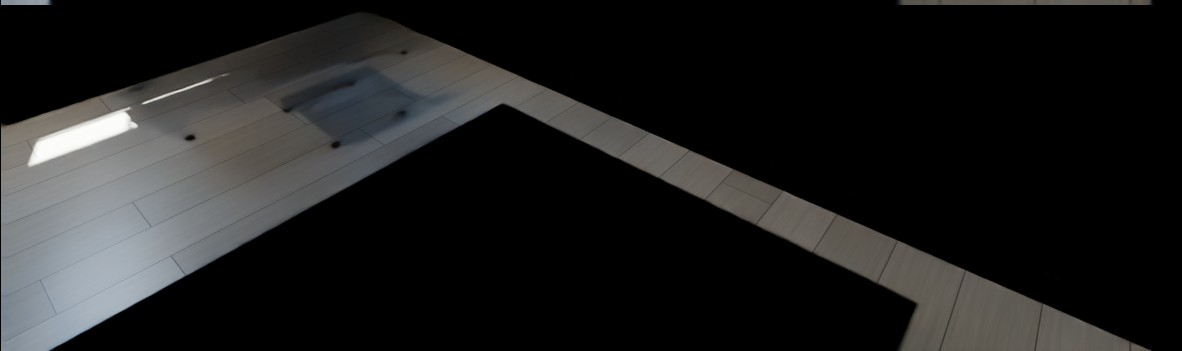
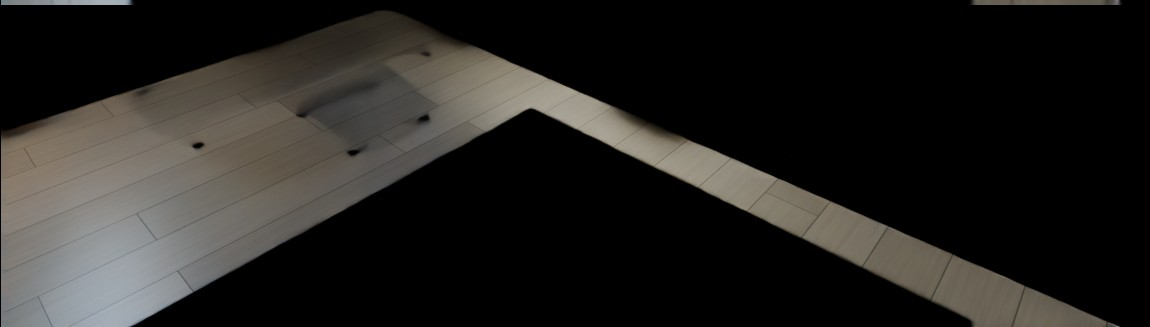
The Lookout 3500 2.0: bed2
The Lookout 3500 2.0 page: a picture redone.

- Bedroom 2 re-rendered: afternoon sun, cased windows with curtains, a desk at the window; crown molding as a choice, flooring, carpet, wall paint and window frames as before.

Claude-Session: https://claude.ai/code/session_01LcUu1yMTHs7qUW5E51HSvp

diff --git a/lookout/site.js b/lookout/site.js
@@ -1,1 +1,1 @@
-window.SJ={"name":"The Lookout 3500 2.0","slug":"the-lookout-3500-2","tag":"One-and-a-half-story plan","sub":"Four bedrooms and three and a half baths in 3,760 square feet, with the primary suite on the main level, a lookout room on the roof and a three-car garage.","stats":[["3,760","sq ft finished"],["4","bedrooms"],["3.5","baths"],["3","car garage"],["Main-level","primary suite"],["14 x 16","lookout room"]],"hero":{"day":"img/hero-day.jpg","night":""},"views":[{"id":"hero","name":"Front","kind":"ext","keys":["fas","fd","fdc","g","gdc","lk","prf","pst","rof","sid","trm","win"]},{"id":"yard","name":"Back yard","kind":"ext","keys":["fas","g","lk","pl","prf","pst","rof","sid","trm","win"]},{"id":"great","name":"Living room","kind":"int","keys":["bi","clg","cr","flr","fp","hwc","idc","ids","wal","win"]},{"id":"kitchen","name":"Kitchen","kind":"int","keys":["bsp","cab","cr","ctr","flr","hwc","isl","wal","win"]},{"id":"dining","name":"Dining room","kind":"int","keys":["cr","flr","wal","win"]},{"id":"foyer","name":"Foyer","kind":"int","keys":["cr","fd","fdc","flr","hwc","sf","sr","wal","win"]},{"id":"primary","name":"Primary bedroom","kind":"int","keys":["cr","flr","wal","win"]},{"id":"bath","name":"Primary bath","kind":"int","keys":["btl","cr","ctr","hwc","shw","vcab","wal","win"]},{"id":"office","name":"Loft over the primary closet","kind":"int","keys":["cr","flr","hwc","lof","sf","sr","wal","win"]},{"id":"loft","name":"Upstairs loft","kind":"int","keys":["cr","wal","win"]},{"id":"lookout","name":"Lookout room","kind":"int","keys":["sf","sr","wal","win"],"veil":{"when":{"lk":"0"},"keys":["sf","sr","wal","win"],"note":"Shows in this picture when the lookout room is chosen"}},{"id":"bed2","name":"Bedroom 2","kind":"int","keys":["cpt","uf","wal","win"]},{"id":"bed4","name":"Bedroom 4","kind":"int","keys":["cpt","hwc","idc","uf","wal","win"]},{"id":"lounge","name":"Lower level lounge","kind":"int","keys":["b","cab","ctr","hwc","isl","wal"],"veil":{"when":{"b":"u"},"keys":["cab","ctr","hwc","isl","wal"],"note":"Shows in this picture once the lower level is finished"}},{"id":"bar","name":"Lower level bar","kind":"int","keys":["b","ctr","hwc","isl","wal"],"veil":{"when":{"b":"u"},"keys":["ctr","hwc","isl","wal"],"note":"Shows in this picture once the lower level is finished"}}],"baths":[],"bathkeys":[],"opts":[{"key":"lk","name":"Lookout room","cat":"ext","ch":[{"id":"1","name":"Lookout room on the roof (as drawn)"},{"id":"0","name":"No lookout"}],"note":"The lookout room sits on the roof, 14 x 16 ft with windows all around, reached by its own stair."},{"key":"g","name":"Garage entry","cat":"ext","ch":[{"id":"f","name":"Front entry (as drawn)"},{"id":"s","name":"Side entry, with a motor court"}],"note":"Side entry: the garage wing is re-proportioned and its doors face a motor court at the side; windows take their place on the front."},{"key":"pl","name":"Pool","cat":"ext","ch":[{"id":"n","name":"No pool (as drawn)"},{"id":"1","name":"Lap pool, 10 x 45 ft"},{"id":"2","name":"Plunge pool with a raised spa"},{"id":"3","name":"Courtyard pool with a shade pavilion"}],"note":"The pools sit behind the covered deck, on a paved terrace one step above the lawn."},{"key":"sid","name":"Siding colour","cat":"ext","ch":[{"id":"white","name":"Chantilly White","css":"#F1EFE8"},{"id":"cream","name":"Warm Cream","css":"#E6DCC6"},{"id":"greige","name":"Pebble Greige","css":"#B9B2A3"},{"id":"sage","name":"Sage","css":"#8E9A86"},{"id":"blue","name":"Harbor Blue","css":"#5E768A"},{"id":"navy","name":"Midnight Navy","css":"#28364A"},{"id":"iron","name":"Iron Gray","css":"#45484A"},{"id":"black","name":"Tricorn Black","css":"#222325"}]},{"key":"trm","name":"Trim and corner boards","cat":"ext","ch":[{"id":"white","name":"White","css":"#F4F2EC"},{"id":"cream","name":"Cream","css":"#E9E1CF"},{"id":"black","name":"Black","css":"#1E1F21"},{"id":"bronze","name":"Dark Bronze","css":"#3A322B"}]},{"key":"rof","name":"Roof shingles","cat":"ext","ch":[{"id":"char","name":"Charcoal","css":"linear-gradient(180deg,#33353A 0 50%,#45474C 50%)"},{"id":"onyx","name":"Onyx Black","css":"linear-gradient(180deg,#1D1E21 0 50%,#2A2B2F 50%)"},{"id":"wood","name":"Weathered Wood","css":"linear-gradient(180deg,#5E554B 0 50%,#7A6F62 50%)"},{"id":"slate","name":"Slate Gray","css":"linear-gradient(180deg,#4D5560 0 50%,#69717C 50%)"},{"id":"brown","name":"Barkwood","css":"linear-gradient(180deg,#41342B 0 50%,#5B4A3D 50%)"}]},{"key":"prf","name":"Porch, lookout and accent roofs","cat":"ext","ch":[{"id":"metal","name":"Black standing seam","css":"repeating-linear-gradient(90deg,#1b1c1f 0 7px,#34363a 7px 9px)"},{"id":"copper","name":"Copper standing seam","css":"repeating-linear-gradient(90deg,#9A5A34 0 7px,#c07c4c 7px 9px)"},{"id":"match","name":"Shingles to match","css":"repeating-linear-gradient(0deg,#2a2b2f 0 5px,#1d1e21 5px 10px)"}]},{"key":"fas","name":"Gutters and downspouts","cat":"ext","ch":[{"id":"white","name":"White","css":"#F2F0EA"},{"id":"black","name":"Black","css":"#1B1C1E"},{"id":"bronze","name":"Dark Bronze","css":"#3A322B"}]},{"key":"win","name":"Window frames","cat":"ext","ch":[{"id":"black","name":"Black","css":"#18191B"},{"id":"white","name":"White","css":"#F0EEE8"},{"id":"bronze","name":"Bronze","css":"#3B3129"},{"id":"clay","name":"Clay","css":"#A89F8E"}]},{"key":"fd","name":"Front door","cat":"ext","ch":[{"id":"g","name":"Double doors, glass over a panel"},{"id":"s","name":"Steel-look glass double doors"},{"id":"c","name":"Craftsman door with sidelights"},{"id":"p","name":"Panelled double doors"}],"note":"Every design comes with a transom over the door; its colour is the next choice."},{"key":"fdc","name":"Front door colour","cat":"ext","ch":[{"id":"wood","name":"Stained Walnut","css":"linear-gradient(135deg,#6A4226,#4A2C18)"},{"id":"black","name":"Black","css":"#161719"},{"id":"navy","name":"Navy","css":"#22324A"},{"id":"red","name":"Barn Red","css":"#6E1F1B"},{"id":"teal","name":"Deep Teal","css":"#1F4A4C"},{"id":"sage","name":"Sage","css":"#7C8A74"},{"id":"white","name":"White","css":"#F0EEE8"}]},{"key":"gdc","name":"Garage door colour","cat":"ext","ch":[{"id":"white","name":"White","css":"#EFEDE7"},{"id":"black","name":"Black","css":"#18191B"},{"id":"iron","name":"Iron Gray","css":"#4A4C4E"},{"id":"bronze","name":"Bronze","css":"#3B3129"},{"id":"wood","name":"Walnut","css":"linear-gradient(135deg,#6A4226,#4A2C18)"}]},{"key":"pst","name":"Porch posts and beams","cat":"ext","ch":[{"id":"cedar","name":"Stained cedar","css":"linear-gradient(135deg,#96663A,#774E28)"},{"id":"white","name":"White","css":"#EFEDE7"},{"id":"black","name":"Black","css":"#1F2022"}]},{"key":"b","name":"Lower level","cat":"int","ch":[{"id":"u","name":"Unfinished (as drawn)"},{"id":"f","name":"Finished"}]},{"key":"lof","name":"Loft over the primary closet","cat":"int","ch":[{"id":"o","name":"Home office"},{"id":"l","name":"Library"},{"id":"r","name":"Retreat"}],"note":"The room over the primary closet, up its own spiral stair: 13 x 11 ft with windows on all four sides."},{"key":"clg","name":"Living room ceiling","cat":"int","ch":[{"id":"c","name":"Coffered, painted"},{"id":"o","name":"Coffered, oak beams"},{"id":"b","name":"Timber beams"},{"id":"t","name":"Tray ceiling"}],"note":"Coffers: nine panels framed by beams, centred on the fireplace, with a ring chandelier in the middle."},{"key":"cr","name":"Crown molding","cat":"int","ch":[{"id":"n","name":"None"},{"id":"c","name":"Classic crown, 5 1/4 in."},{"id":"f","name":"Craftsman, flat with a cap"}],"note":"Runs on every wall that meets a flat ceiling: the main level, upstairs, the lookout room, the loft over the closet and the finished lower level."},{"key":"fp","name":"Fireplace","cat":"int","ch":[{"id":"stone","name":"Stacked stone (as drawn)","css":"repeating-linear-gradient(0deg,#8f887c 0 4px,#6f695f 4px 5px)"},{"id":"white","name":"White stacked stone","css":"repeating-linear-gradient(0deg,#E9E6DF 0 4px,#c4c0b7 4px 5px)"},{"id":"brick","name":"Red brick","css":"repeating-linear-gradient(0deg,#8E4A36 0 5px,#B9B2A6 5px 6px)"},{"id":"wbrick","name":"White painted brick","css":"repeating-linear-gradient(0deg,#EDEAE3 0 5px,#cfcbc2 5px 6px)"},{"id":"slate","name":"Charcoal slate tile","css":"repeating-linear-gradient(90deg,#3B3D40 0 12px,#1F2022 12px 13px)"}]},{"key":"bi","name":"Fireplace built-ins","cat":"int","ch":[{"id":"c","name":"Cabinets with oak tops (as drawn)"},{"id":"s","name":"Cabinets and shelves to the ceiling"},{"id":"n","name":"None"}],"note":"The built-ins stand on both sides of the fireplace."},{"key":"ids","name":"Interior door style","cat":"int","ch":[{"id":"s","name":"Two-panel Shaker"},{"id":"f","name":"Five-panel"},{"id":"c","name":"Craftsman, three-panel"}],"note":"8 ft doors on the main level, 6 ft 8 in. upstairs; every opening is cased, with a cap over the head."},{"key":"idc","name":"Interior doors","cat":"int","ch":[{"id":"white","name":"White","css":"#F2F0EA"},{"id":"black","name":"Black","css":"#1E1F21"},{"id":"grey","name":"Gray","css":"#8F9190"},{"id":"oak","name":"Natural oak","css":"linear-gradient(135deg,#B9905E,#A67C4C)"}]},{"key":"sf","name":"Stair treads and handrails","cat":"int","ch":[{"id":"o","name":"Natural oak (as drawn)","css":"linear-gradient(135deg,#B9905E,#A67C4C)"},{"id":"d","name":"Walnut","css":"linear-gradient(135deg,#6A4A32,#573B27)"},{"id":"k","name":"Ebony","css":"linear-gradient(135deg,#30261F,#211A15)"},{"id":"w","name":"Whitewashed oak","css":"linear-gradient(135deg,#D9CDB8,#C9BCA4)"}]},{"key":"sr","name":"Stair balusters","cat":"int","ch":[{"id":"k","name":"Black iron","css":"#141414"},{"id":"w","name":"White","css":"#EFEDE7"},{"id":"b","name":"Satin brass","css":"#B08A4A"}]},{"key":"flr","name":"Hardwood flooring","cat":"int","ch":[{"id":"oak","name":"Natural Oak Plank","css":"repeating-linear-gradient(90deg,#B08F68 0 9px,#9C7B55 9px 18px)"},{"id":"honey","name":"Honey Oak","css":"repeating-linear-gradient(90deg,#B8834A 0 9px,#A2703C 9px 18px)"},{"id":"grey","name":"Driftwood Gray","css":"repeating-linear-gradient(90deg,#9A9288 0 9px,#857D73 9px 18px)"},{"id":"walnut","name":"Walnut","css":"repeating-linear-gradient(90deg,#6A4A32 0 9px,#573B27 9px 18px)"},{"id":"white","name":"Whitewashed","css":"repeating-linear-gradient(90deg,#CFC3B0 0 9px,#BFB29E 9px 18px)"}]},{"key":"uf","name":"Bedroom flooring","cat":"int","ch":[{"id":"c","name":"Carpet (as shown)","css":"repeating-linear-gradient(45deg,#C9C0AE 0 3px,#BDB4A2 3px 6px)"},{"id":"oak","name":"Natural Oak Plank","css":"repeating-linear-gradient(90deg,#B08F68 0 9px,#9C7B55 9px 18px)"},{"id":"honey","name":"Honey Oak","css":"repeating-linear-gradient(90deg,#B8834A 0 9px,#A2703C 9px 18px)"},{"id":"grey","name":"Driftwood Gray","css":"repeating-linear-gradient(90deg,#9A9288 0 9px,#857D73 9px 18px)"},{"id":"walnut","name":"Walnut","css":"repeating-linear-gradient(90deg,#6A4A32 0 9px,#573B27 9px 18px)"},{"id":"white","name":"Whitewashed","css":"repeating-linear-gradient(90deg,#CFC3B0 0 9px,#BFB29E 9px 18px)"}]},{"key":"cpt","name":"Carpet","cat":"int","ch":[{"id":"oat","name":"Oatmeal","css":"#C9C0AE"},{"id":"grey","name":"Silver","css":"#B5B3AE"},{"id":"taupe","name":"Taupe","css":"#A39685"}],"only":{"uf":"c"}},{"key":"wal","name":"Wall paint","cat":"int","ch":[{"id":"alab","name":"Alabaster","css":"#EDEAE0"},{"id":"grey","name":"Agreeable Gray","css":"#D1CBC1"},{"id":"greige","name":"Accessible Beige","css":"#D1C7B8"},{"id":"blue","name":"Sea Salt","css":"#CDD2CA"},{"id":"white","name":"Pure White","css":"#F2F0EB"}]},{"key":"cab","name":"Kitchen cabinets","cat":"int","ch":[{"id":"white","name":"White Shaker","css":"#EFEDE7"},{"id":"grey","name":"Dove Gray","css":"#A9ABA8"},{"id":"sage","name":"Sage","css":"#8A967F"},{"id":"navy","name":"Navy","css":"#27364B"},{"id":"black","name":"Black","css":"#1F2022"},{"id":"oak","name":"Natural Oak","css":"linear-gradient(135deg,#B9905E,#A67C4C)"}]},{"key":"isl","name":"Island and range hood","cat":"int","ch":[{"id":"navy","name":"Navy","css":"#27364B"},{"id":"white","name":"White","css":"#EFEDE7"},{"id":"oak","name":"Natural Oak","css":"linear-gradient(135deg,#B9905E,#A67C4C)"},{"id":"black","name":"Black","css":"#1F2022"},{"id":"sage","name":"Sage","css":"#8A967F"}]},{"key":"ctr","name":"Countertops","cat":"int","ch":[{"id":"white","name":"White Quartz","css":"#EEEBE4"},{"id":"marble","name":"Marble-look Quartz","css":"linear-gradient(120deg,#ECE9E3 0 40%,#b9b6ae 44%,#ECE9E3 48% 70%,#c9c6be 74%,#ECE9E3 78%)"},{"id":"black","name":"Black Granite","css":"linear-gradient(120deg,#17181A 0 55%,#4a4a48 60%,#17181A 65%)"},{"id":"grey","name":"Concrete Gray","css":"#9A9894"}]},{"key":"bsp","name":"Backsplash","cat":"int","ch":[{"id":"slab","name":"Marble slab","css":"linear-gradient(120deg,#ECE9E3 0 40%,#b9b6ae 44%,#ECE9E3 48% 70%,#c9c6be 74%,#ECE9E3 78%)"},{"id":"subway","name":"White Subway","css":"repeating-linear-gradient(0deg,#F0EEE8 0 8px,#cfccc4 8px 9px)"},{"id":"green","name":"Sage Zellige","css":"repeating-linear-gradient(0deg,#8FA08A 0 8px,#6f806a 8px 9px)"},{"id":"grey","name":"Gray Subway","css":"repeating-linear-gradient(0deg,#B4B6B4 0 8px,#8f918f 8px 9px)"},{"id":"black","name":"Black Subway","css":"repeating-linear-gradient(0deg,#232426 0 8px,#6A6A68 8px 9px)"}]},{"key":"vcab","name":"Bathroom vanities","cat":"int","ch":[{"id":"oak","name":"Natural oak","css":"linear-gradient(135deg,#B9905E,#A67C4C)"},{"id":"white","name":"White","css":"#EFEDE7"},{"id":"navy","name":"Navy","css":"#27364B"},{"id":"sage","name":"Sage","css":"#8A967F"},{"id":"black","name":"Black","css":"#1F2022"},{"id":"walnut","name":"Walnut","css":"linear-gradient(135deg,#6A4A32,#573B27)"}]},{"key":"shw","name":"Shower walls","cat":"int","ch":[{"id":"slab","name":"Marble slab","css":"linear-gradient(120deg,#ECE9E3 0 40%,#b9b6ae 44%,#ECE9E3 48% 70%,#c9c6be 74%,#ECE9E3 78%)"},{"id":"subway","name":"White subway tile","css":"repeating-linear-gradient(0deg,#F0EEE8 0 8px,#cfccc4 8px 9px)"},{"id":"zel","name":"Sage zellige","css":"repeating-linear-gradient(0deg,#8FA08A 0 8px,#6f806a 8px 9px)"},{"id":"slate","name":"Charcoal slate","css":"repeating-linear-gradient(90deg,#3B3D40 0 14px,#1F2022 14px 15px)"},{"id":"trav","name":"Warm limestone","css":"repeating-linear-gradient(90deg,#D9CDB8 0 14px,#B8AC96 14px 15px)"}],"note":"The primary bath's wet room, and the wall behind the tub in each upstairs bath."},{"key":"btl","name":"Bath floor tile","cat":"int","ch":[{"id":"w","name":"White porcelain","css":"repeating-linear-gradient(90deg,#EDEBE6 0 12px,#B9B6AE 12px 13px)"},{"id":"g","name":"Warm gray","css":"repeating-linear-gradient(90deg,#B9B2A6 0 12px,#8C867B 12px 13px)"},{"id":"m","name":"Marble look","css":"linear-gradient(120deg,#ECEAE6 0 40%,#c4c1bb 46%,#ECEAE6 52%)"},{"id":"c","name":"Charcoal slate","css":"repeating-linear-gradient(90deg,#4A4C4F 0 12px,#2C2D2F 12px 13px)"}]},{"key":"hwc","name":"Hardware and faucets","cat":"int","ch":[{"id":"brass","name":"Satin Brass","css":"#B08A4A"},{"id":"black","name":"Matte Black","css":"#101011"},{"id":"nickel","name":"Satin Nickel","css":"#9A9A98"}]}],"defaults":{"sid":"white","trm":"white","fas":"white","win":"black","fdc":"wood","gdc":"white","rof":"char","prf":"metal","lk":"1","g":"f","b":"u","pl":"n","fd":"g","pst":"cedar","clg":"c","cr":"n","fp":"stone","bi":"c","sf":"o","sr":"k","idc":"white","ids":"s","lof":"o","hwc":"brass","wal":"alab","cab":"white","isl":"navy","ctr":"marble","bsp":"slab","vcab":"oak","shw":"slab","btl":"w","flr":"oak","cpt":"oat","uf":"c"},"gallery":[],"looks":[{"cat":"ext","name":"Modern farmhouse (as drawn)","set":{}},{"cat":"ext","name":"Midnight and copper","set":{"sid":"navy","prf":"copper","gdc":"wood","rof":"onyx"}},{"cat":"ext","name":"Sage cottage","set":{"sid":"sage","trm":"cream","fas":"bronze","win":"white","rof":"wood","fdc":"navy","fd":"c"}},{"cat":"ext","name":"Charcoal modern","set":{"sid":"iron","trm":"black","fas":"black","rof":"onyx","gdc":"black","fdc":"black","fd":"s"}},{"cat":"ext","name":"Coastal blue","set":{"sid":"blue","win":"white","rof":"slate","fdc":"navy"}},{"cat":"ext","name":"Warm greige","set":{"sid":"greige","trm":"cream","fas":"bronze","win":"bronze","rof":"brown","gdc":"bronze","fd":"p"}},{"cat":"ext","name":"Black barn","set":{"sid":"black","trm":"black","fas":"black","gdc":"wood","prf":"copper","fd":"p"}},{"cat":"int","name":"Light and warm (as shown)","set":{}},{"cat":"int","name":"Warm oak","set":{"isl":"oak","ctr":"marble","flr":"honey","wal":"greige","clg":"o","cr":"f","ids":"c"}},{"cat":"int","name":"Deep and moody","set":{"cab":"navy","bsp":"grey","flr":"walnut","wal":"grey","idc":"black","clg":"b","cr":"c","vcab":"navy","shw":"slate","lof":"l"}},{"cat":"int","name":"Scandinavian","set":{"isl":"white","flr":"white","wal":"white","hwc":"black","clg":"t","ids":"f","vcab":"white","shw":"subway"}},{"cat":"int","name":"Sage kitchen","set":{"cab":"sage","isl":"oak","bsp":"green","vcab":"sage","shw":"zel","lof":"r"}},{"cat":"int","name":"Black and white","set":{"cab":"black","isl":"white","ctr":"marble","flr":"grey","wal":"white","hwc":"nickel","idc":"black","ids":"c","cr":"c","vcab":"black","shw":"subway"}},{"cat":"int","name":"Everything added","set":{"cr":"c","clg":"o","bi":"s","ids":"c","lof":"l","b":"f"}}],"plan_lead":"Each level seen from straight above, with everything over it taken away. Furniture is illustrative.","plans":[{"id":"main_f","name":"Main level","note":"2,144 sq ft: living, dining and kitchen in the core, the primary suite in its own wing, a three-car garage","svg":"<img src=\"img/plan-main_f.jpg\" alt=\"Main level, seen from above with the levels over it taken away\" style=\"width:100%;height:auto;display:block;border-radius:10px\">"},{"id":"main_s","name":"Main level, side-entry garage","note":"The same rooms; the garage wing is re-proportioned and entered from a motor court at the side","svg":"<img src=\"img/plan-main_s.jpg\" alt=\"Main level, side-entry garage, seen from above with the levels over it taken away\" style=\"width:100%;height:auto;display:block;border-radius:10px\">"},{"id":"upper","name":"Upstairs","note":"1,224 sq ft: three bedrooms, two baths, the loft and a laundry; the office loft sits over the primary closet","svg":"<img src=\"img/plan-upper.jpg\" alt=\"Upstairs, seen from above with the levels over it taken away\" style=\"width:100%;height:auto;display:block;border-radius:10px\">"},{"id":"look","name":"Lookout","note":"224 sq ft: the lookout room on the roof, windows on all four sides","svg":"<img src=\"img/plan-look.jpg\" alt=\"Lookout, seen from above with the levels over it taken away\" style=\"width:100%;height:auto;display:block;border-radius:10px\">"},{"id":"bsmt_u","name":"Lower level","note":"Unfinished, as drawn: a safe room, mechanical space and rough-ins for a bath and a wet bar","svg":"<img src=\"img/plan-bsmt_u.jpg\" alt=\"Lower level, seen from above with the levels over it taken away\" style=\"width:100%;height:auto;display:block;border-radius:10px\">"},{"id":"bsmt_f","name":"Lower level, finished","note":"Lounge, bar, gym, bath and sauna, with the safe room, storage and mechanical space","svg":"<img src=\"img/plan-bsmt_f.jpg\" alt=\"Lower level, finished, seen from above with the levels over it taken away\" style=\"width:100%;height:auto;display:block;border-radius:10px\">"}],"lot":null,"specs":[{"h":"The home","items":["3,760 sq ft finished: 2,144 on the main level, 1,224 upstairs, a 168 sq ft office loft and the 224 sq ft lookout room","Four bedrooms and three and a half baths; the primary suite is on the main level in its own wing","The primary suite: a 20 x 20 bedroom with a door to the covered deck, a spa bath and a walk-in closet, about 800 sq ft in all","Three-car garage in a wing of its own, front entry or side entry","Core 34 x 36 ft, two stories; the garage wing 32 x 24 ft and the primary wing 20 x 46 ft are one story"]},{"h":"Rooms","items":["Main level: foyer, dining room, living room with a fireplace and a 12 ft slider to the covered deck, kitchen with a prep kitchen and pantry, mudroom, powder room, laundry","Upstairs: three bedrooms, two baths, a loft, a second laundry","An office loft over the primary closet, reached by its own spiral stair","The lookout room: 14 x 16 ft on the roof, windows on all four sides"]},{"h":"Heights and roof","items":["10 ft ceilings on the main level","Gable roofs with standing-seam accents over the porch, the lookout and the garage doors","Covered 16 x 14 ft deck off the living room; covered front porch on timber posts"]},{"h":"Inside finish","items":["Living room ceiling: nine coffers centred on the fireplace with a ring chandelier, painted or in oak; timber beams or a tray ceiling instead","Doors: 8 ft on the main level and 6 ft 8 in. upstairs, in three panel styles, every opening cased with a cap over the head","Crown molding as a choice on every level, classic or craftsman","Front door in four designs under a transom: glass over a panel, steel-look glass, craftsman with sidelights, or panelled","Baths: vanity cabinets and shower walls chosen apart from the kitchen","The loft over the primary closet as a home office, a library or a retreat"]},{"h":"Outside","items":["Board-and-batten siding with trim boards at corners and openings","Black-framed windows with grids","A full basement under the core"]}],"foot":["The pictures and the design studio on this page are computer renderings of a 3D model of the plan. Furniture, planting and the land around the house are illustrative; the plan is not drawn on a particular lot.","Finishes offered in the design studio are examples for planning, not a builder's price list. A builder's plan set and contract govern."],"tour":null,"model3d":{"src":"3d/","poster":"img/hero-day.jpg"}};
+window.SJ={"name":"The Lookout 3500 2.0","slug":"the-lookout-3500-2","tag":"One-and-a-half-story plan","sub":"Four bedrooms and three and a half baths in 3,760 square feet, with the primary suite on the main level, a lookout room on the roof and a three-car garage.","stats":[["3,760","sq ft finished"],["4","bedrooms"],["3.5","baths"],["3","car garage"],["Main-level","primary suite"],["14 x 16","lookout room"]],"hero":{"day":"img/hero-day.jpg","night":""},"views":[{"id":"hero","name":"Front","kind":"ext","keys":["fas","fd","fdc","g","gdc","lk","prf","pst","rof","sid","trm","win"]},{"id":"yard","name":"Back yard","kind":"ext","keys":["fas","g","lk","pl","prf","pst","rof","sid","trm","win"]},{"id":"great","name":"Living room","kind":"int","keys":["bi","clg","cr","flr","fp","hwc","idc","ids","wal","win"]},{"id":"kitchen","name":"Kitchen","kind":"int","keys":["bsp","cab","cr","ctr","flr","hwc","isl","wal","win"]},{"id":"dining","name":"Dining room","kind":"int","keys":["cr","flr","wal","win"]},{"id":"foyer","name":"Foyer","kind":"int","keys":["cr","fd","fdc","flr","hwc","sf","sr","wal","win"]},{"id":"primary","name":"Primary bedroom","kind":"int","keys":["cr","flr","wal","win"]},{"id":"bath","name":"Primary bath","kind":"int","keys":["btl","cr","ctr","hwc","shw","vcab","wal","win"]},{"id":"office","name":"Loft over the primary closet","kind":"int","keys":["cr","flr","hwc","lof","sf","sr","wal","win"]},{"id":"loft","name":"Upstairs loft","kind":"int","keys":["cr","wal","win"]},{"id":"lookout","name":"Lookout room","kind":"int","keys":["sf","sr","wal","win"],"veil":{"when":{"lk":"0"},"keys":["sf","sr","wal","win"],"note":"Shows in this picture when the lookout room is chosen"}},{"id":"bed2","name":"Bedroom 2","kind":"int","keys":["cpt","cr","uf","wal","win"]},{"id":"bed4","name":"Bedroom 4","kind":"int","keys":["cpt","hwc","idc","uf","wal","win"]},{"id":"lounge","name":"Lower level lounge","kind":"int","keys":["b","cab","ctr","hwc","isl","wal"],"veil":{"when":{"b":"u"},"keys":["cab","ctr","hwc","isl","wal"],"note":"Shows in this picture once the lower level is finished"}},{"id":"bar","name":"Lower level bar","kind":"int","keys":["b","ctr","hwc","isl","wal"],"veil":{"when":{"b":"u"},"keys":["ctr","hwc","isl","wal"],"note":"Shows in this picture once the lower level is finished"}}],"baths":[],"bathkeys":[],"opts":[{"key":"lk","name":"Lookout room","cat":"ext","ch":[{"id":"1","name":"Lookout room on the roof (as drawn)"},{"id":"0","name":"No lookout"}],"note":"The lookout room sits on the roof, 14 x 16 ft with windows all around, reached by its own stair."},{"key":"g","name":"Garage entry","cat":"ext","ch":[{"id":"f","name":"Front entry (as drawn)"},{"id":"s","name":"Side entry, with a motor court"}],"note":"Side entry: the garage wing is re-proportioned and its doors face a motor court at the side; windows take their place on the front."},{"key":"pl","name":"Pool","cat":"ext","ch":[{"id":"n","name":"No pool (as drawn)"},{"id":"1","name":"Lap pool, 10 x 45 ft"},{"id":"2","name":"Plunge pool with a raised spa"},{"id":"3","name":"Courtyard pool with a shade pavilion"}],"note":"The pools sit behind the covered deck, on a paved terrace one step above the lawn."},{"key":"sid","name":"Siding colour","cat":"ext","ch":[{"id":"white","name":"Chantilly White","css":"#F1EFE8"},{"id":"cream","name":"Warm Cream","css":"#E6DCC6"},{"id":"greige","name":"Pebble Greige","css":"#B9B2A3"},{"id":"sage","name":"Sage","css":"#8E9A86"},{"id":"blue","name":"Harbor Blue","css":"#5E768A"},{"id":"navy","name":"Midnight Navy","css":"#28364A"},{"id":"iron","name":"Iron Gray","css":"#45484A"},{"id":"black","name":"Tricorn Black","css":"#222325"}]},{"key":"trm","name":"Trim and corner boards","cat":"ext","ch":[{"id":"white","name":"White","css":"#F4F2EC"},{"id":"cream","name":"Cream","css":"#E9E1CF"},{"id":"black","name":"Black","css":"#1E1F21"},{"id":"bronze","name":"Dark Bronze","css":"#3A322B"}]},{"key":"rof","name":"Roof shingles","cat":"ext","ch":[{"id":"char","name":"Charcoal","css":"linear-gradient(180deg,#33353A 0 50%,#45474C 50%)"},{"id":"onyx","name":"Onyx Black","css":"linear-gradient(180deg,#1D1E21 0 50%,#2A2B2F 50%)"},{"id":"wood","name":"Weathered Wood","css":"linear-gradient(180deg,#5E554B 0 50%,#7A6F62 50%)"},{"id":"slate","name":"Slate Gray","css":"linear-gradient(180deg,#4D5560 0 50%,#69717C 50%)"},{"id":"brown","name":"Barkwood","css":"linear-gradient(180deg,#41342B 0 50%,#5B4A3D 50%)"}]},{"key":"prf","name":"Porch, lookout and accent roofs","cat":"ext","ch":[{"id":"metal","name":"Black standing seam","css":"repeating-linear-gradient(90deg,#1b1c1f 0 7px,#34363a 7px 9px)"},{"id":"copper","name":"Copper standing seam","css":"repeating-linear-gradient(90deg,#9A5A34 0 7px,#c07c4c 7px 9px)"},{"id":"match","name":"Shingles to match","css":"repeating-linear-gradient(0deg,#2a2b2f 0 5px,#1d1e21 5px 10px)"}]},{"key":"fas","name":"Gutters and downspouts","cat":"ext","ch":[{"id":"white","name":"White","css":"#F2F0EA"},{"id":"black","name":"Black","css":"#1B1C1E"},{"id":"bronze","name":"Dark Bronze","css":"#3A322B"}]},{"key":"win","name":"Window frames","cat":"ext","ch":[{"id":"black","name":"Black","css":"#18191B"},{"id":"white","name":"White","css":"#F0EEE8"},{"id":"bronze","name":"Bronze","css":"#3B3129"},{"id":"clay","name":"Clay","css":"#A89F8E"}]},{"key":"fd","name":"Front door","cat":"ext","ch":[{"id":"g","name":"Double doors, glass over a panel"},{"id":"s","name":"Steel-look glass double doors"},{"id":"c","name":"Craftsman door with sidelights"},{"id":"p","name":"Panelled double doors"}],"note":"Every design comes with a transom over the door; its colour is the next choice."},{"key":"fdc","name":"Front door colour","cat":"ext","ch":[{"id":"wood","name":"Stained Walnut","css":"linear-gradient(135deg,#6A4226,#4A2C18)"},{"id":"black","name":"Black","css":"#161719"},{"id":"navy","name":"Navy","css":"#22324A"},{"id":"red","name":"Barn Red","css":"#6E1F1B"},{"id":"teal","name":"Deep Teal","css":"#1F4A4C"},{"id":"sage","name":"Sage","css":"#7C8A74"},{"id":"white","name":"White","css":"#F0EEE8"}]},{"key":"gdc","name":"Garage door colour","cat":"ext","ch":[{"id":"white","name":"White","css":"#EFEDE7"},{"id":"black","name":"Black","css":"#18191B"},{"id":"iron","name":"Iron Gray","css":"#4A4C4E"},{"id":"bronze","name":"Bronze","css":"#3B3129"},{"id":"wood","name":"Walnut","css":"linear-gradient(135deg,#6A4226,#4A2C18)"}]},{"key":"pst","name":"Porch posts and beams","cat":"ext","ch":[{"id":"cedar","name":"Stained cedar","css":"linear-gradient(135deg,#96663A,#774E28)"},{"id":"white","name":"White","css":"#EFEDE7"},{"id":"black","name":"Black","css":"#1F2022"}]},{"key":"b","name":"Lower level","cat":"int","ch":[{"id":"u","name":"Unfinished (as drawn)"},{"id":"f","name":"Finished"}]},{"key":"lof","name":"Loft over the primary closet","cat":"int","ch":[{"id":"o","name":"Home office"},{"id":"l","name":"Library"},{"id":"r","name":"Retreat"}],"note":"The room over the primary closet, up its own spiral stair: 13 x 11 ft with windows on all four sides."},{"key":"clg","name":"Living room ceiling","cat":"int","ch":[{"id":"c","name":"Coffered, painted"},{"id":"o","name":"Coffered, oak beams"},{"id":"b","name":"Timber beams"},{"id":"t","name":"Tray ceiling"}],"note":"Coffers: nine panels framed by beams, centred on the fireplace, with a ring chandelier in the middle."},{"key":"cr","name":"Crown molding","cat":"int","ch":[{"id":"n","name":"None"},{"id":"c","name":"Classic crown, 5 1/4 in."},{"id":"f","name":"Craftsman, flat with a cap"}],"note":"Runs on every wall that meets a flat ceiling: the main level, upstairs, the lookout room, the loft over the closet and the finished lower level."},{"key":"fp","name":"Fireplace","cat":"int","ch":[{"id":"stone","name":"Stacked stone (as drawn)","css":"repeating-linear-gradient(0deg,#8f887c 0 4px,#6f695f 4px 5px)"},{"id":"white","name":"White stacked stone","css":"repeating-linear-gradient(0deg,#E9E6DF 0 4px,#c4c0b7 4px 5px)"},{"id":"brick","name":"Red brick","css":"repeating-linear-gradient(0deg,#8E4A36 0 5px,#B9B2A6 5px 6px)"},{"id":"wbrick","name":"White painted brick","css":"repeating-linear-gradient(0deg,#EDEAE3 0 5px,#cfcbc2 5px 6px)"},{"id":"slate","name":"Charcoal slate tile","css":"repeating-linear-gradient(90deg,#3B3D40 0 12px,#1F2022 12px 13px)"}]},{"key":"bi","name":"Fireplace built-ins","cat":"int","ch":[{"id":"c","name":"Cabinets with oak tops (as drawn)"},{"id":"s","name":"Cabinets and shelves to the ceiling"},{"id":"n","name":"None"}],"note":"The built-ins stand on both sides of the fireplace."},{"key":"ids","name":"Interior door style","cat":"int","ch":[{"id":"s","name":"Two-panel Shaker"},{"id":"f","name":"Five-panel"},{"id":"c","name":"Craftsman, three-panel"}],"note":"8 ft doors on the main level, 6 ft 8 in. upstairs; every opening is cased, with a cap over the head."},{"key":"idc","name":"Interior doors","cat":"int","ch":[{"id":"white","name":"White","css":"#F2F0EA"},{"id":"black","name":"Black","css":"#1E1F21"},{"id":"grey","name":"Gray","css":"#8F9190"},{"id":"oak","name":"Natural oak","css":"linear-gradient(135deg,#B9905E,#A67C4C)"}]},{"key":"sf","name":"Stair treads and handrails","cat":"int","ch":[{"id":"o","name":"Natural oak (as drawn)","css":"linear-gradient(135deg,#B9905E,#A67C4C)"},{"id":"d","name":"Walnut","css":"linear-gradient(135deg,#6A4A32,#573B27)"},{"id":"k","name":"Ebony","css":"linear-gradient(135deg,#30261F,#211A15)"},{"id":"w","name":"Whitewashed oak","css":"linear-gradient(135deg,#D9CDB8,#C9BCA4)"}]},{"key":"sr","name":"Stair balusters","cat":"int","ch":[{"id":"k","name":"Black iron","css":"#141414"},{"id":"w","name":"White","css":"#EFEDE7"},{"id":"b","name":"Satin brass","css":"#B08A4A"}]},{"key":"flr","name":"Hardwood flooring","cat":"int","ch":[{"id":"oak","name":"Natural Oak Plank","css":"repeating-linear-gradient(90deg,#B08F68 0 9px,#9C7B55 9px 18px)"},{"id":"honey","name":"Honey Oak","css":"repeating-linear-gradient(90deg,#B8834A 0 9px,#A2703C 9px 18px)"},{"id":"grey","name":"Driftwood Gray","css":"repeating-linear-gradient(90deg,#9A9288 0 9px,#857D73 9px 18px)"},{"id":"walnut","name":"Walnut","css":"repeating-linear-gradient(90deg,#6A4A32 0 9px,#573B27 9px 18px)"},{"id":"white","name":"Whitewashed","css":"repeating-linear-gradient(90deg,#CFC3B0 0 9px,#BFB29E 9px 18px)"}]},{"key":"uf","name":"Bedroom flooring","cat":"int","ch":[{"id":"c","name":"Carpet (as shown)","css":"repeating-linear-gradient(45deg,#C9C0AE 0 3px,#BDB4A2 3px 6px)"},{"id":"oak","name":"Natural Oak Plank","css":"repeating-linear-gradient(90deg,#B08F68 0 9px,#9C7B55 9px 18px)"},{"id":"honey","name":"Honey Oak","css":"repeating-linear-gradient(90deg,#B8834A 0 9px,#A2703C 9px 18px)"},{"id":"grey","name":"Driftwood Gray","css":"repeating-linear-gradient(90deg,#9A9288 0 9px,#857D73 9px 18px)"},{"id":"walnut","name":"Walnut","css":"repeating-linear-gradient(90deg,#6A4A32 0 9px,#573B27 9px 18px)"},{"id":"white","name":"Whitewashed","css":"repeating-linear-gradient(90deg,#CFC3B0 0 9px,#BFB29E 9px 18px)"}]},{"key":"cpt","name":"Carpet","cat":"int","ch":[{"id":"oat","name":"Oatmeal","css":"#C9C0AE"},{"id":"grey","name":"Silver","css":"#B5B3AE"},{"id":"taupe","name":"Taupe","css":"#A39685"}],"only":{"uf":"c"}},{"key":"wal","name":"Wall paint","cat":"int","ch":[{"id":"alab","name":"Alabaster","css":"#EDEAE0"},{"id":"grey","name":"Agreeable Gray","css":"#D1CBC1"},{"id":"greige","name":"Accessible Beige","css":"#D1C7B8"},{"id":"blue","name":"Sea Salt","css":"#CDD2CA"},{"id":"white","name":"Pure White","css":"#F2F0EB"}]},{"key":"cab","name":"Kitchen cabinets","cat":"int","ch":[{"id":"white","name":"White Shaker","css":"#EFEDE7"},{"id":"grey","name":"Dove Gray","css":"#A9ABA8"},{"id":"sage","name":"Sage","css":"#8A967F"},{"id":"navy","name":"Navy","css":"#27364B"},{"id":"black","name":"Black","css":"#1F2022"},{"id":"oak","name":"Natural Oak","css":"linear-gradient(135deg,#B9905E,#A67C4C)"}]},{"key":"isl","name":"Island and range hood","cat":"int","ch":[{"id":"navy","name":"Navy","css":"#27364B"},{"id":"white","name":"White","css":"#EFEDE7"},{"id":"oak","name":"Natural Oak","css":"linear-gradient(135deg,#B9905E,#A67C4C)"},{"id":"black","name":"Black","css":"#1F2022"},{"id":"sage","name":"Sage","css":"#8A967F"}]},{"key":"ctr","name":"Countertops","cat":"int","ch":[{"id":"white","name":"White Quartz","css":"#EEEBE4"},{"id":"marble","name":"Marble-look Quartz","css":"linear-gradient(120deg,#ECE9E3 0 40%,#b9b6ae 44%,#ECE9E3 48% 70%,#c9c6be 74%,#ECE9E3 78%)"},{"id":"black","name":"Black Granite","css":"linear-gradient(120deg,#17181A 0 55%,#4a4a48 60%,#17181A 65%)"},{"id":"grey","name":"Concrete Gray","css":"#9A9894"}]},{"key":"bsp","name":"Backsplash","cat":"int","ch":[{"id":"slab","name":"Marble slab","css":"linear-gradient(120deg,#ECE9E3 0 40%,#b9b6ae 44%,#ECE9E3 48% 70%,#c9c6be 74%,#ECE9E3 78%)"},{"id":"subway","name":"White Subway","css":"repeating-linear-gradient(0deg,#F0EEE8 0 8px,#cfccc4 8px 9px)"},{"id":"green","name":"Sage Zellige","css":"repeating-linear-gradient(0deg,#8FA08A 0 8px,#6f806a 8px 9px)"},{"id":"grey","name":"Gray Subway","css":"repeating-linear-gradient(0deg,#B4B6B4 0 8px,#8f918f 8px 9px)"},{"id":"black","name":"Black Subway","css":"repeating-linear-gradient(0deg,#232426 0 8px,#6A6A68 8px 9px)"}]},{"key":"vcab","name":"Bathroom vanities","cat":"int","ch":[{"id":"oak","name":"Natural oak","css":"linear-gradient(135deg,#B9905E,#A67C4C)"},{"id":"white","name":"White","css":"#EFEDE7"},{"id":"navy","name":"Navy","css":"#27364B"},{"id":"sage","name":"Sage","css":"#8A967F"},{"id":"black","name":"Black","css":"#1F2022"},{"id":"walnut","name":"Walnut","css":"linear-gradient(135deg,#6A4A32,#573B27)"}]},{"key":"shw","name":"Shower walls","cat":"int","ch":[{"id":"slab","name":"Marble slab","css":"linear-gradient(120deg,#ECE9E3 0 40%,#b9b6ae 44%,#ECE9E3 48% 70%,#c9c6be 74%,#ECE9E3 78%)"},{"id":"subway","name":"White subway tile","css":"repeating-linear-gradient(0deg,#F0EEE8 0 8px,#cfccc4 8px 9px)"},{"id":"zel","name":"Sage zellige","css":"repeating-linear-gradient(0deg,#8FA08A 0 8px,#6f806a 8px 9px)"},{"id":"slate","name":"Charcoal slate","css":"repeating-linear-gradient(90deg,#3B3D40 0 14px,#1F2022 14px 15px)"},{"id":"trav","name":"Warm limestone","css":"repeating-linear-gradient(90deg,#D9CDB8 0 14px,#B8AC96 14px 15px)"}],"note":"The primary bath's wet room, and the wall behind the tub in each upstairs bath."},{"key":"btl","name":"Bath floor tile","cat":"int","ch":[{"id":"w","name":"White porcelain","css":"repeating-linear-gradient(90deg,#EDEBE6 0 12px,#B9B6AE 12px 13px)"},{"id":"g","name":"Warm gray","css":"repeating-linear-gradient(90deg,#B9B2A6 0 12px,#8C867B 12px 13px)"},{"id":"m","name":"Marble look","css":"linear-gradient(120deg,#ECEAE6 0 40%,#c4c1bb 46%,#ECEAE6 52%)"},{"id":"c","name":"Charcoal slate","css":"repeating-linear-gradient(90deg,#4A4C4F 0 12px,#2C2D2F 12px 13px)"}]},{"key":"hwc","name":"Hardware and faucets","cat":"int","ch":[{"id":"brass","name":"Satin Brass","css":"#B08A4A"},{"id":"black","name":"Matte Black","css":"#101011"},{"id":"nickel","name":"Satin Nickel","css":"#9A9A98"}]}],"defaults":{"sid":"white","trm":"white","fas":"white","win":"black","fdc":"wood","gdc":"white","rof":"char","prf":"metal","lk":"1","g":"f","b":"u","pl":"n","fd":"g","pst":"cedar","clg":"c","cr":"n","fp":"stone","bi":"c","sf":"o","sr":"k","idc":"white","ids":"s","lof":"o","hwc":"brass","wal":"alab","cab":"white","isl":"navy","ctr":"marble","bsp":"slab","vcab":"oak","shw":"slab","btl":"w","flr":"oak","cpt":"oat","uf":"c"},"gallery":[],"looks":[{"cat":"ext","name":"Modern farmhouse (as drawn)","set":{}},{"cat":"ext","name":"Midnight and copper","set":{"sid":"navy","prf":"copper","gdc":"wood","rof":"onyx"}},{"cat":"ext","name":"Sage cottage","set":{"sid":"sage","trm":"cream","fas":"bronze","win":"white","rof":"wood","fdc":"navy","fd":"c"}},{"cat":"ext","name":"Charcoal modern","set":{"sid":"iron","trm":"black","fas":"black","rof":"onyx","gdc":"black","fdc":"black","fd":"s"}},{"cat":"ext","name":"Coastal blue","set":{"sid":"blue","win":"white","rof":"slate","fdc":"navy"}},{"cat":"ext","name":"Warm greige","set":{"sid":"greige","trm":"cream","fas":"bronze","win":"bronze","rof":"brown","gdc":"bronze","fd":"p"}},{"cat":"ext","name":"Black barn","set":{"sid":"black","trm":"black","fas":"black","gdc":"wood","prf":"copper","fd":"p"}},{"cat":"int","name":"Light and warm (as shown)","set":{}},{"cat":"int","name":"Warm oak","set":{"isl":"oak","ctr":"marble","flr":"honey","wal":"greige","clg":"o","cr":"f","ids":"c"}},{"cat":"int","name":"Deep and moody","set":{"cab":"navy","bsp":"grey","flr":"walnut","wal":"grey","idc":"black","clg":"b","cr":"c","vcab":"navy","shw":"slate","lof":"l"}},{"cat":"int","name":"Scandinavian","set":{"isl":"white","flr":"white","wal":"white","hwc":"black","clg":"t","ids":"f","vcab":"white","shw":"subway"}},{"cat":"int","name":"Sage kitchen","set":{"cab":"sage","isl":"oak","bsp":"green","vcab":"sage","shw":"zel","lof":"r"}},{"cat":"int","name":"Black and white","set":{"cab":"black","isl":"white","ctr":"marble","flr":"grey","wal":"white","hwc":"nickel","idc":"black","ids":"c","cr":"c","vcab":"black","shw":"subway"}},{"cat":"int","name":"Everything added","set":{"cr":"c","clg":"o","bi":"s","ids":"c","lof":"l","b":"f"}}],"plan_lead":"Each level seen from straight above, with everything over it taken away. Furniture is illustrative.","plans":[{"id":"main_f","name":"Main level","note":"2,144 sq ft: living, dining and kitchen in the core, the primary suite in its own wing, a three-car garage","svg":"<img src=\"img/plan-main_f.jpg\" alt=\"Main level, seen from above with the levels over it taken away\" style=\"width:100%;height:auto;display:block;border-radius:10px\">"},{"id":"main_s","name":"Main level, side-entry garage","note":"The same rooms; the garage wing is re-proportioned and entered from a motor court at the side","svg":"<img src=\"img/plan-main_s.jpg\" alt=\"Main level, side-entry garage, seen from above with the levels over it taken away\" style=\"width:100%;height:auto;display:block;border-radius:10px\">"},{"id":"upper","name":"Upstairs","note":"1,224 sq ft: three bedrooms, two baths, the loft and a laundry; the office loft sits over the primary closet","svg":"<img src=\"img/plan-upper.jpg\" alt=\"Upstairs, seen from above with the levels over it taken away\" style=\"width:100%;height:auto;display:block;border-radius:10px\">"},{"id":"look","name":"Lookout","note":"224 sq ft: the lookout room on the roof, windows on all four sides","svg":"<img src=\"img/plan-look.jpg\" alt=\"Lookout, seen from above with the levels over it taken away\" style=\"width:100%;height:auto;display:block;border-radius:10px\">"},{"id":"bsmt_u","name":"Lower level","note":"Unfinished, as drawn: a safe room, mechanical space and rough-ins for a bath and a wet bar","svg":"<img src=\"img/plan-bsmt_u.jpg\" alt=\"Lower level, seen from above with the levels over it taken away\" style=\"width:100%;height:auto;display:block;border-radius:10px\">"},{"id":"bsmt_f","name":"Lower level, finished","note":"Lounge, bar, gym, bath and sauna, with the safe room, storage and mechanical space","svg":"<img src=\"img/plan-bsmt_f.jpg\" alt=\"Lower level, finished, seen from above with the levels over it taken away\" style=\"width:100%;height:auto;display:block;border-radius:10px\">"}],"lot":null,"specs":[{"h":"The home","items":["3,760 sq ft finished: 2,144 on the main level, 1,224 upstairs, a 168 sq ft office loft and the 224 sq ft lookout room","Four bedrooms and three and a half baths; the primary suite is on the main level in its own wing","The primary suite: a 20 x 20 bedroom with a door to the covered deck, a spa bath and a walk-in closet, about 800 sq ft in all","Three-car garage in a wing of its own, front entry or side entry","Core 34 x 36 ft, two stories; the garage wing 32 x 24 ft and the primary wing 20 x 46 ft are one story"]},{"h":"Rooms","items":["Main level: foyer, dining room, living room with a fireplace and a 12 ft slider to the covered deck, kitchen with a prep kitchen and pantry, mudroom, powder room, laundry","Upstairs: three bedrooms, two baths, a loft, a second laundry","An office loft over the primary closet, reached by its own spiral stair","The lookout room: 14 x 16 ft on the roof, windows on all four sides"]},{"h":"Heights and roof","items":["10 ft ceilings on the main level","Gable roofs with standing-seam accents over the porch, the lookout and the garage doors","Covered 16 x 14 ft deck off the living room; covered front porch on timber posts"]},{"h":"Inside finish","items":["Living room ceiling: nine coffers centred on the fireplace with a ring chandelier, painted or in oak; timber beams or a tray ceiling instead","Doors: 8 ft on the main level and 6 ft 8 in. upstairs, in three panel styles, every opening cased with a cap over the head","Crown molding as a choice on every level, classic or craftsman","Front door in four designs under a transom: glass over a panel, steel-look glass, craftsman with sidelights, or panelled","Baths: vanity cabinets and shower walls chosen apart from the kitchen","The loft over the primary closet as a home office, a library or a retreat"]},{"h":"Outside","items":["Board-and-batten siding with trim boards at corners and openings","Black-framed windows with grids","A full basement under the core"]}],"foot":["The pictures and the design studio on this page are computer renderings of a 3D model of the plan. Furniture, planting and the land around the house are illustrative; the plan is not drawn on a particular lot.","Finishes offered in the design studio are examples for planning, not a builder's price list. A builder's plan set and contract govern."],"tour":null,"model3d":{"src":"3d/","poster":"img/hero-day.jpg"}};
